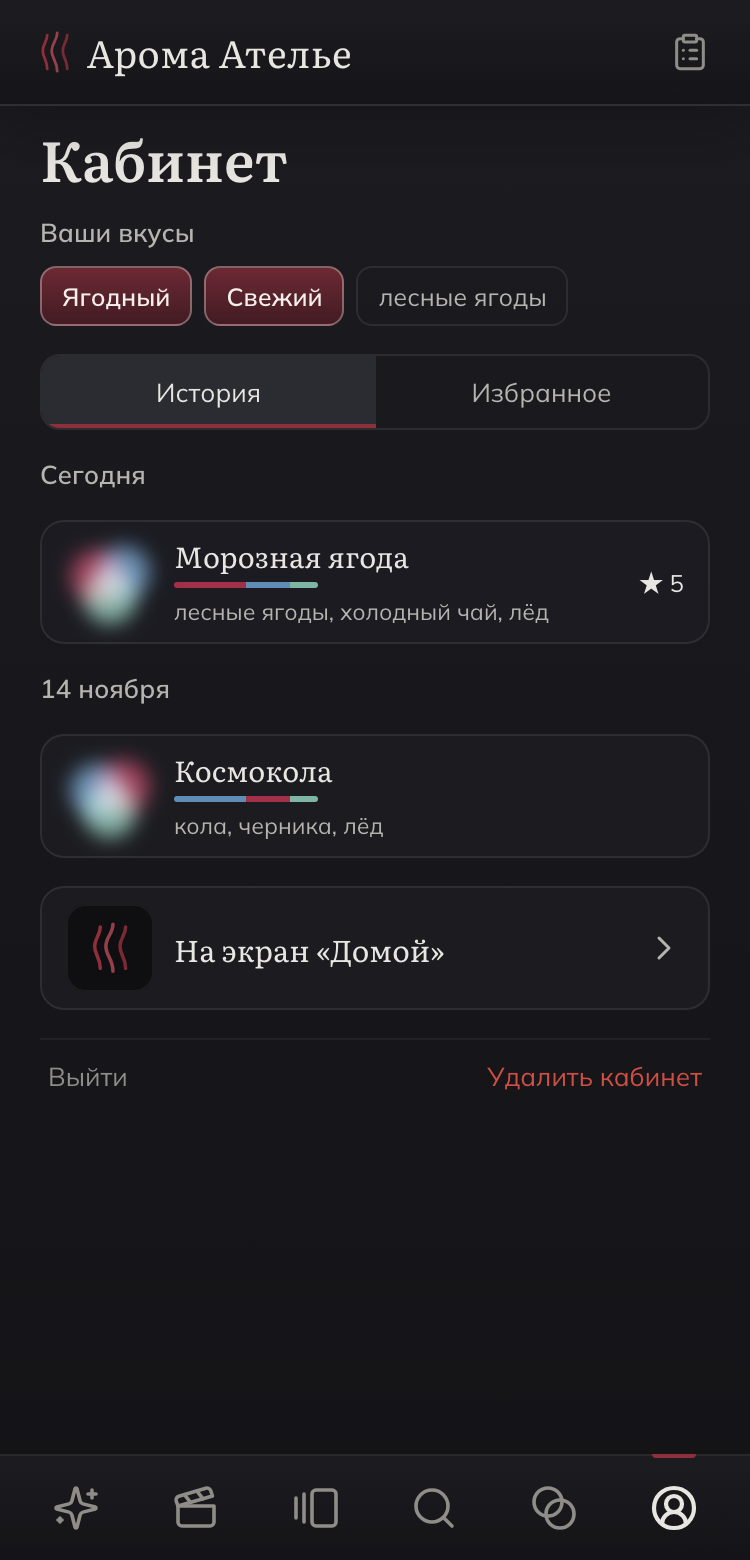
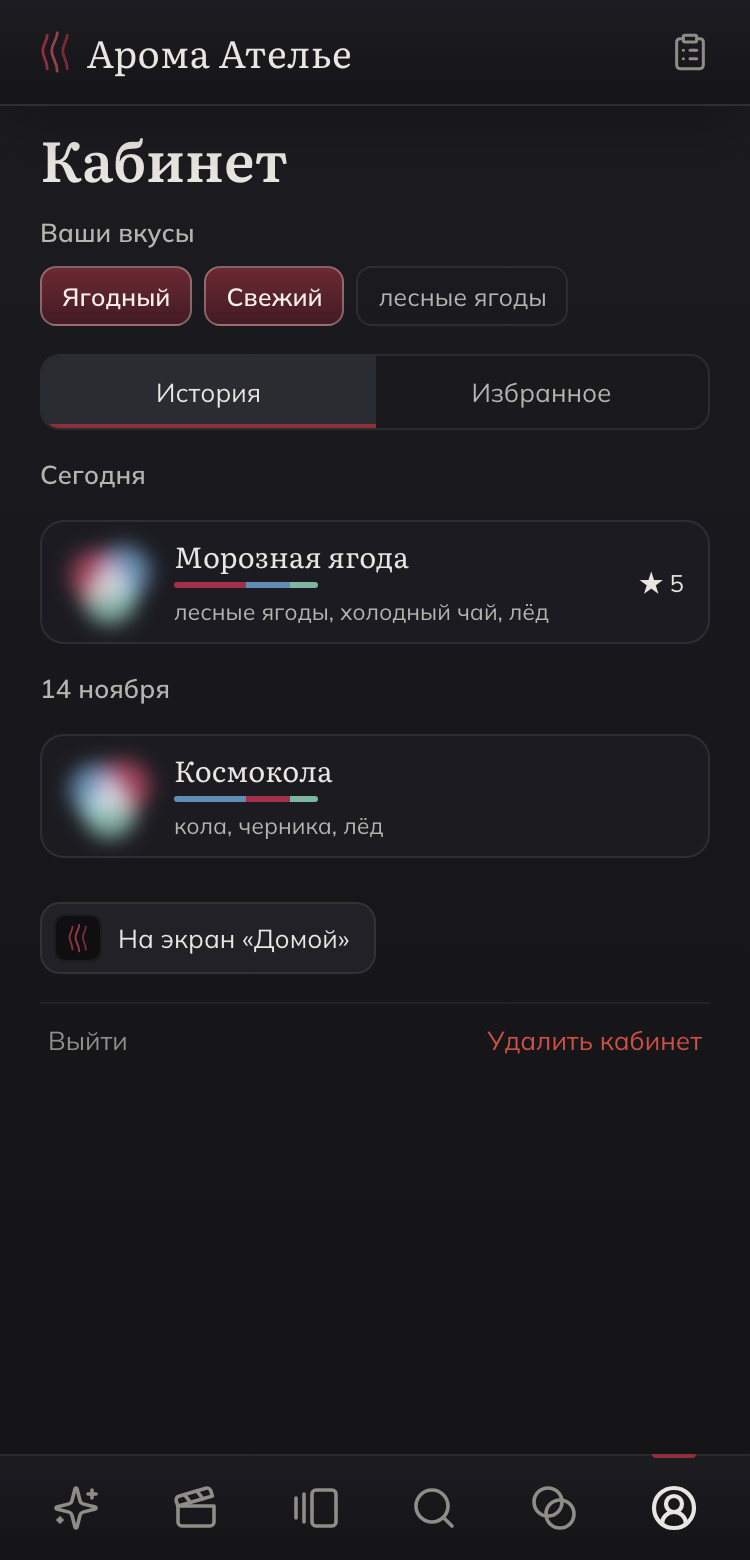
feat(design): компактная кнопка «На экран «Домой»» в Кабинете (#582)
Строка во всю ширину читалась как пункт истории, владелец попросил
сделать меньше.

Changed region(s): [[0.0613, 0.5846, 0.5827, 0.7077], [0.7973, 0.6462, 0.92, 0.7077], [0.6747, 0.6462, 0.7667, 0.7077]]

diff --git a/design/design_handoff_pwa_install/mockups.html b/design/design_handoff_pwa_install/mockups.html
@@ -161,9 +161,8 @@ body{font-family:var(--font-body);color:var(--text-primary);overflow-x:hidden;ba
 .install-plate-x{width:36px;height:36px;display:inline-flex;align-items:center;justify-content:center;border:0;border-radius:var(--r-guest-control);background:transparent;color:var(--text-muted);cursor:pointer}
 
 /* Строка в «Кабинете» */
-.install-row{grid-template-columns:44px minmax(0,1fr) auto}
-.install-row .app-icon{width:44px;height:44px;border-radius:10px}
-.install-row-name{font-family:var(--font-display);font-size:15px;color:var(--text-0)}
+.install-btn{justify-self:start;margin-top:8px;display:inline-flex;align-items:center;gap:8px;min-height:36px;padding:0 12px 0 6px;border:1px solid var(--line);border-radius:var(--r-guest-control);background:rgba(40,40,48,.54);color:var(--text-0);font-family:var(--font-body);font-size:13px;cursor:pointer}
+.install-btn .app-icon{width:24px;height:24px;border-radius:6px}
 
 /* Шторка с шагами */
 .install-steps{margin:0;padding:0;list-style:none;display:grid;gap:12px}
@@ -262,11 +261,7 @@ const plate = () => `
     <button type="button" class="install-plate-x" aria-label="Закрыть">${icon('x', 18)}</button>
   </div>`;
 
-const installRow = () => `
-  <button type="button" class="cab-row install-row">${appIcon()}
-    <span class="install-row-name">На экран «Домой»</span>
-    <span class="chev">${icon('chevron-right', 20)}</span>
-  </button>`;
+const installRow = () => `<button type="button" class="install-btn">${appIcon()}На экран «Домой»</button>`;
 
 const sheet = (inner) => `<div class="aroma-sheet-overlay"><div class="aroma-sheet" role="dialog" aria-label="На экран Домой" style="background:var(--guest-sheet-bg)"><div class="aroma-sheet-handle"></div>${inner}</div></div>`;
 const sheetHead = () => `<div class="install-sheet-head">${appIcon()}<h2 class="aroma-sheet-title">На экран «Домой»</h2></div>`;
@@ -339,8 +334,8 @@ const FRAMES = {
   ],
   'row-hint': [
     ['plate', 'Плашка после первого «Покурить»', 'Появляется после «Готово» на карточке для мастера, над нижней панелью. Крестик или добавление, и она больше не показывается.', app(recs(), 'Подбор', plate())],
-    ['cab-anon', 'Кабинет без входа', 'Строка под формой входа. Есть всегда, пока приложение открыто в браузере.', app(cabAnon(), 'Кабинет')],
-    ['cab-in', 'Кабинет после входа', 'Строка над «Выйти».', app(cabIn(), 'Кабинет')],
+    ['cab-anon', 'Кабинет без входа', 'Кнопка под формой входа. Есть всегда, пока приложение открыто в браузере.', app(cabAnon(), 'Кабинет')],
+    ['cab-in', 'Кабинет после входа', 'Кнопка над «Выйти», после истории.', app(cabIn(), 'Кабинет')],
   ],
   'row-sheet': [
     ['sheet-ios', 'iPhone, Safari', 'Программной установки на iPhone нет, только шаги. Значки повторяют кнопки Safari.', app(recs(), 'Подбор', sheet(SHEETS.ios))],

diff --git a/design/design_handoff_pwa_install/README.md b/design/design_handoff_pwa_install/README.md
@@ -33,7 +33,8 @@ python3 -m http.server 8765 --bind 127.0.0.1
    - iPhone не в Safari (встроенный браузер Telegram, Instagram): шторка `#sheet-inapp`;
    - остальное (Android без события): шторка `#sheet-android`.
 4. **Плашка** (`#plate`): один раз после первого «Покурить», когда гость нажал «Готово» на карточке для мастера. Стоит над нижней панелью на том экране, куда он вернулся. Иконка 36, «Держите Арома Ателье на экране телефона.», «Добавить», крестик. Крестик, «Добавить» или событие `appinstalled` пишут `localStorage['aroma-install-hint'] = 'done'`, после этого плашки нет. Хранилище недоступно, и плашки нет.
-5. **Строка в «Кабинете»** (`#cab-anon`, `#cab-in`): строка в стиле строки кабинета, иконка 44, «На экран «Домой»», шеврон. У анонима под формой входа, у вошедшего над «Выйти». Действие то же, что у «Добавить».
+5. **Кнопка в «Кабинете»** (`#cab-anon`, `#cab-in`): компактная кнопка по ширине текста, высота 36, иконка 24, «На экран «Домой»». У анонима под формой входа, у вошедшего после истории, над «Выйти». Действие то же, что у «Добавить».
+   **Раунд 2 (2026-11-17):** строка во всю ширину с иконкой 44 и шевроном отвергнута владельцем: читалась как ещё один пункт истории.
 6. **Шторка** (`#sheet-ios`, `#sheet-android`, `#sheet-inapp`): иконка 52 и заголовок «На экран «Домой»», шаги с номерами, «Понятно» закрывает. Названия кнопок браузера жирным, значки Lucide `share`, `square-plus`, `ellipsis-vertical`.
 
 ## Что не реализовывать
